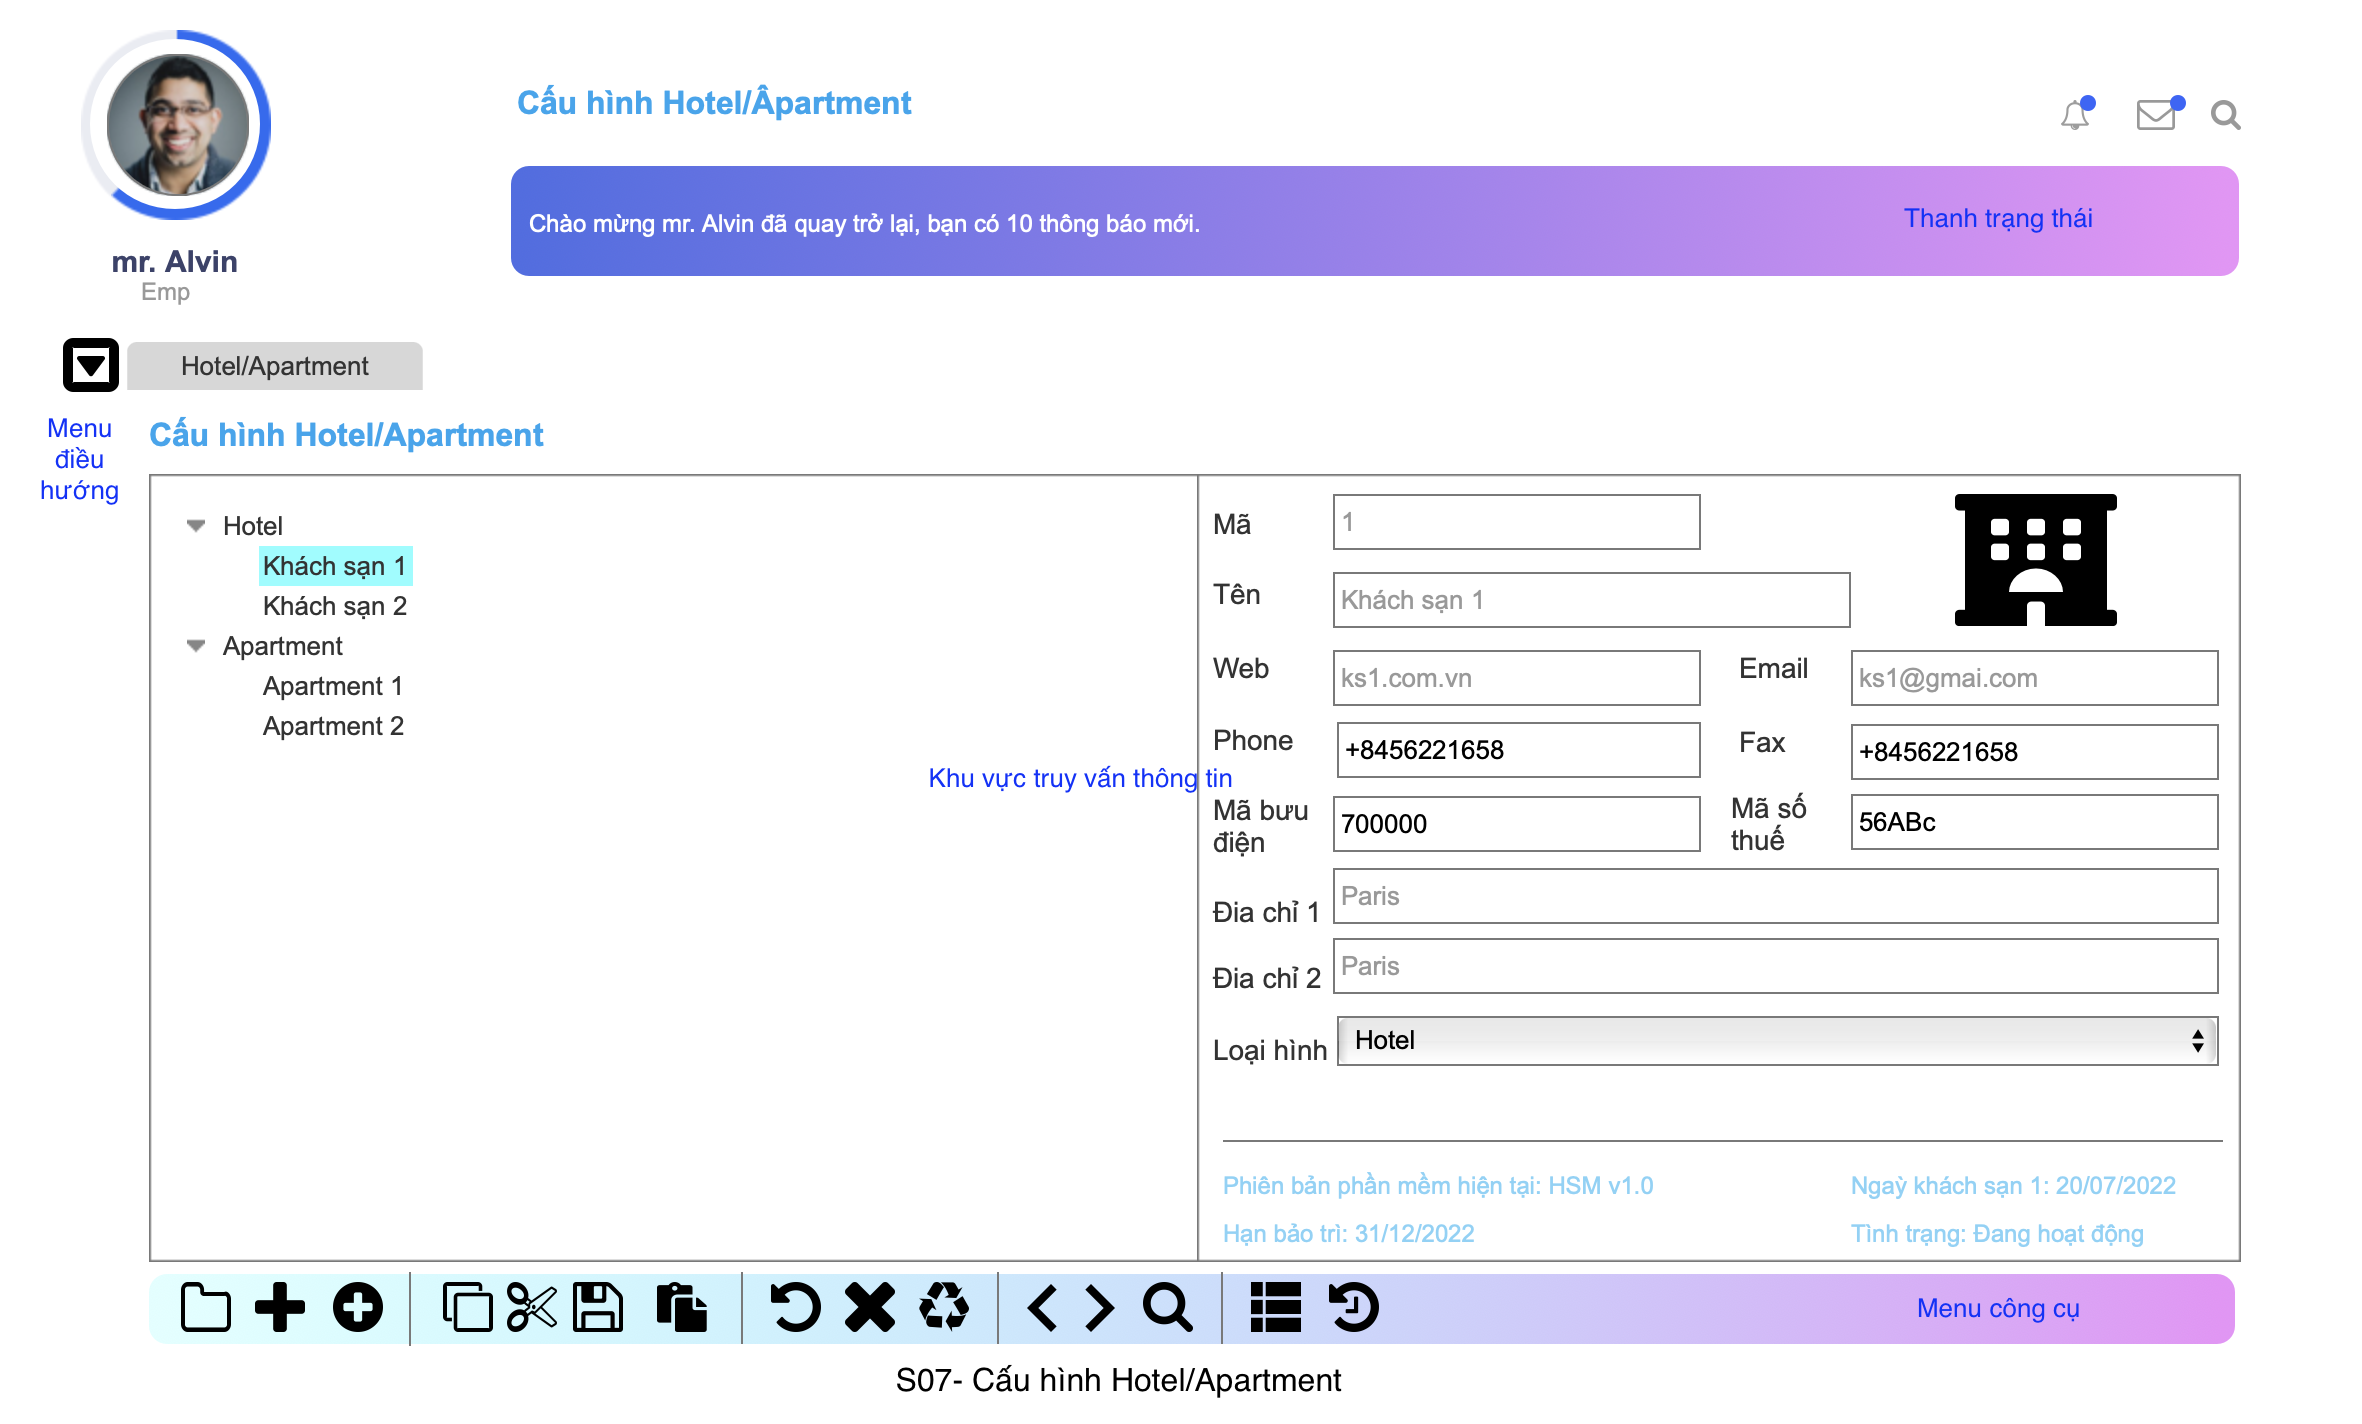
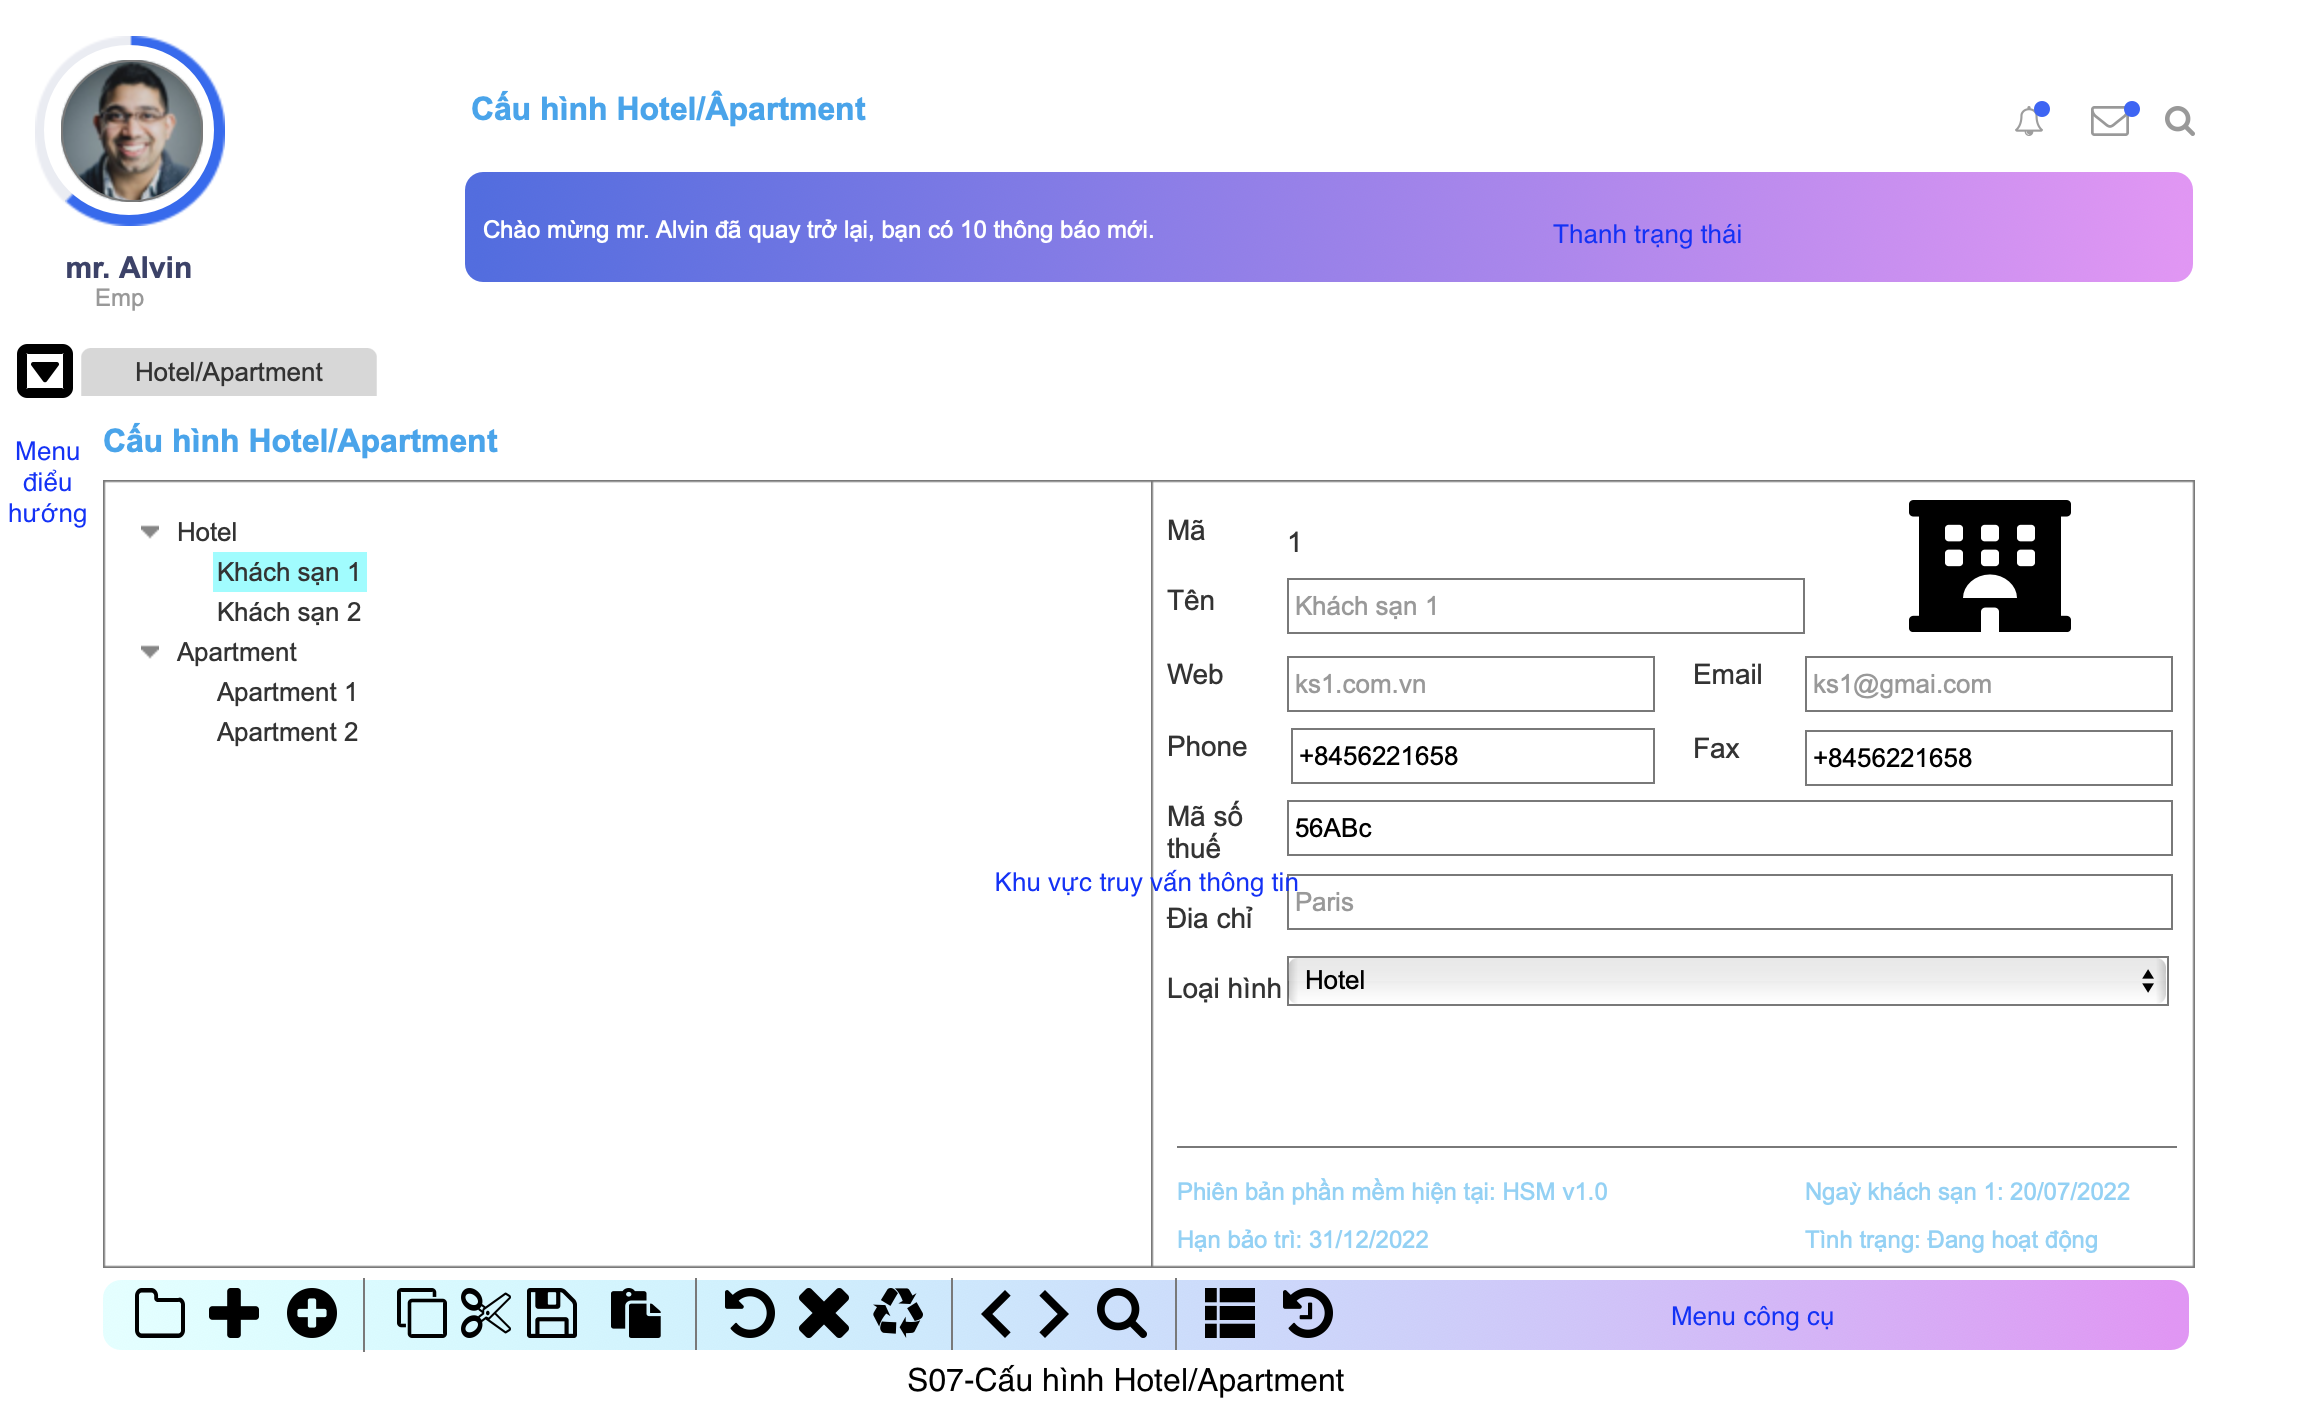
02082022
update ngày 282022

diff --git a/index.html b/index.html
@@ -312,25 +312,208 @@
                     <h3>Mockup</h3>
                     <p>Màn hình Dashboard.</p>
                 </div>
-                <!--  <div id="menu3" class="tab-pane fade">
-                    <h3>Menu 3</h3>
-                    <p>Eaque ipsa quae ab illo inventore veritatis et quasi architecto beatae vitae dicta sunt
-                        explicabo.</p>
-                </div> -->
+
                 <!-- Noi dung trang Hotel/Apartment -->
                 <div id="hahome" class="tab-pane fade in">
                     <h3>HOME</h3>
-                    <p>màn hotel</p>
+                    <p>Cài đặt thông tin cơ bản cho hotel/apartment</p>
                 </div>
                 <div id="hadiagram" class="tab-pane fade in">
                     <h3>Activity Diagram</h3>
                     <p>
-                    <p><img src="./Images/diagram/dashboard.png" class="img-fluid" alt="Responsive image"></p>.
+                    <p><img src="./Images/diagram/Hotel:Apartment.png" class="img-fluid" alt="Responsive image"></p>.
                     </p>
                 </div>
                 <div id="hamockup" class="tab-pane fade in">
                     <h3>Mockup</h3>
-                    <p>Màn hình Dashboard.</p>
+                    <p><img src="./Images/mockup/s07.png" class="img-fluid" alt="Responsive image"></p>
+                    <table class="table">
+                        <caption>Mô tả màn hình cấu hình Hotel/Apartment</caption>
+                        <thead>
+                            <tr>
+                                <th scope="col">#</th>
+                                <th scope="col">Component</th>
+                                <th scope="col">Comp. Type</th>
+                                <th scope="col">Mandatory</th>
+                                <th scope="col">Default Value</th>
+                                <th scope="col">Description</th>
+                                <th scope="col">PD
+                                    DB.Table.Column
+                                </th>
+                            </tr>
+                        </thead>
+                        <tbody>
+                            <tr>
+                                <th scope="row">1</th>
+                                <td>Cấu hình Hotel/Apartment</td>
+                                <td>Breadscrumbs</td>
+                                <td>YES</td>
+                                <td>N/A</td>
+                                <td>Truy vấn, sửa đổi, xoá thông tin các Hotel/Apartment đã có và thêm mới</td>
+                                <td>
+                                    <ul>
+                                        <li>Database: N/A</li>
+                                        <li>Table: N/A</li>
+                                        <li>Column: N/A</li>
+                                    </ul>
+                                </td>
+                            </tr>
+                            <tr>
+                                <th scope="row">2</th>
+                                <td>Danh sách các Hotel/Apartment</td>
+                                <td>Menu Tree</td>
+                                <td>YES</td>
+                                <td>N/A</td>
+                                <td>Hiển thị thông tin các Hotel/Apartment đã cài đặt. Khi bấm chọn sẽ fill màu
+                                    <p class="mauxanh">(#80FFFF)</p>
+                                </td>
+                                <td>
+                                    <ul>
+                                        <li>Database: N/A</li>
+                                        <li>Table: N/A</li>
+                                        <li>Column: N/A</li>
+                                    </ul>
+                                </td>
+                            </tr>
+                            <tr>
+                                <th scope="row">3</th>
+                                <td>Mã</td>
+                                <td>Label</td>
+                                <td>YES</td>
+                                <td>N/A</td>
+                                <td>Dạng int, tự phát sinh, read only</td>
+                                <td>
+                                    <ul>
+                                        <li>Database: N/A</li>
+                                        <li>Table: N/A</li>
+                                        <li>Column: N/A</li>
+                                    </ul>
+                                </td>
+                            </tr>
+                            <tr>
+                                <th scope="row">4</th>
+                                <td>Tên</td>
+                                <td>Text field</td>
+                                <td>YES</td>
+                                <td>N/A</td>
+                                <td>
+                                    Nhập/Hiển thị tên dạng String
+                                </td>
+                                <td>
+                                    <ul>
+                                        <li>Database: N/A</li>
+                                        <li>Table: N/A</li>
+                                        <li>Column: N/A</li>
+                                    </ul>
+                                </td>
+                            </tr>
+                            <tr>
+                                <th scope="row">5</th>
+                                <td>Web</td>
+                                <td>Text field</td>
+                                <td>YES</td>
+                                <td>N/A</td>
+                                <td>Nhập/Hiển thị địa chỉ website dạng String</td>
+                                <td>
+                                    <ul>
+                                        <li>Database: N/A</li>
+                                        <li>Table: N/A</li>
+                                        <li>Column: N/A</li>
+                                    </ul>
+                                </td>
+                            </tr>
+                            <tr>
+                                <th scope="row">6</th>
+                                <td>Email</td>
+                                <td>Text field</td>
+                                <td>YES</td>
+                                <td>N/A</td>
+                                <td>Nhập/Hiển thị địa chỉ website dạng string, có kiểm tra định dạng email</td>
+                                <td>
+                                    <ul>
+                                        <li>Database: N/A</li>
+                                        <li>Table: N/A</li>
+                                        <li>Column: N/A</li>
+                                    </ul>
+                                </td>
+                            </tr>
+                            <tr>
+                                <th scope="row">7</th>
+                                <td>Phone</td>
+                                <td>Text field</td>
+                                <td>YES</td>
+                                <td>N/A</td>
+                                <td>Nhập/Hiển thị số Phone dạng string, có kiểm tra định dạng Phone</td>
+                                <td>
+                                    <ul>
+                                        <li>Database: N/A</li>
+                                        <li>Table: N/A</li>
+                                        <li>Column: N/A</li>
+                                    </ul>
+                                </td>
+                            </tr>
+                            <tr>
+                                <th scope="row">8</th>
+                                <td>Fax</td>
+                                <td>Text field</td>
+                                <td>YES</td>
+                                <td>N/A</td>
+                                <td>Nhập/Hiển thị số FAX dạng string</td>
+                                <td>
+                                    <ul>
+                                        <li>Database: N/A</li>
+                                        <li>Table: N/A</li>
+                                        <li>Column: N/A</li>
+                                    </ul>
+                                </td>
+                            </tr>
+                            <tr>
+                                <th scope="row">9</th>
+                                <td>Mã số thuế</td>
+                                <td>Text field</td>
+                                <td>YES</td>
+                                <td>N/A</td>
+                                <td>Nhập/Hiển thị mã số thuế dạng string</td>
+                                <td>
+                                    <ul>
+                                        <li>Database: N/A</li>
+                                        <li>Table: N/A</li>
+                                        <li>Column: N/A</li>
+                                    </ul>
+                                </td>
+                            </tr>
+                            <tr>
+                                <th scope="row">10</th>
+                                <td>Địa chỉ</td>
+                                <td>Text field</td>
+                                <td>YES</td>
+                                <td>N/A</td>
+                                <td>Nhập/Hiển thị địa chỉ dạng string</td>
+                                <td>
+                                    <ul>
+                                        <li>Database: N/A</li>
+                                        <li>Table: N/A</li>
+                                        <li>Column: N/A</li>
+                                    </ul>
+                                </td>
+                            </tr>
+                            <tr>
+                                <th scope="row">11</th>
+                                <td>Loại hình</td>
+                                <td>Dropdownlist</td>
+                                <td>YES</td>
+                                <td>Hotel, Apartment</td>
+                                <td>Chọn loại hình với 2 giá tri mặc định là Hotel, Apartment</td>
+                                <td>
+                                    <ul>
+                                        <li>Database: N/A</li>
+                                        <li>Table: N/A</li>
+                                        <li>Column: N/A</li>
+                                    </ul>
+                                </td>
+                            </tr>
+                        </tbody>
+                    </table>
                 </div>
             </div>
 

diff --git a/css/style.css b/css/style.css
@@ -170,6 +170,10 @@ a.article:hover {
   padding-left: 50px !important;
 }
 
+.mauxanh {
+  background-color: #80FFFF !important;
+}
+
 /* ---------------------------------------------------
     CONTENT STYLE
 ----------------------------------------------------- */
